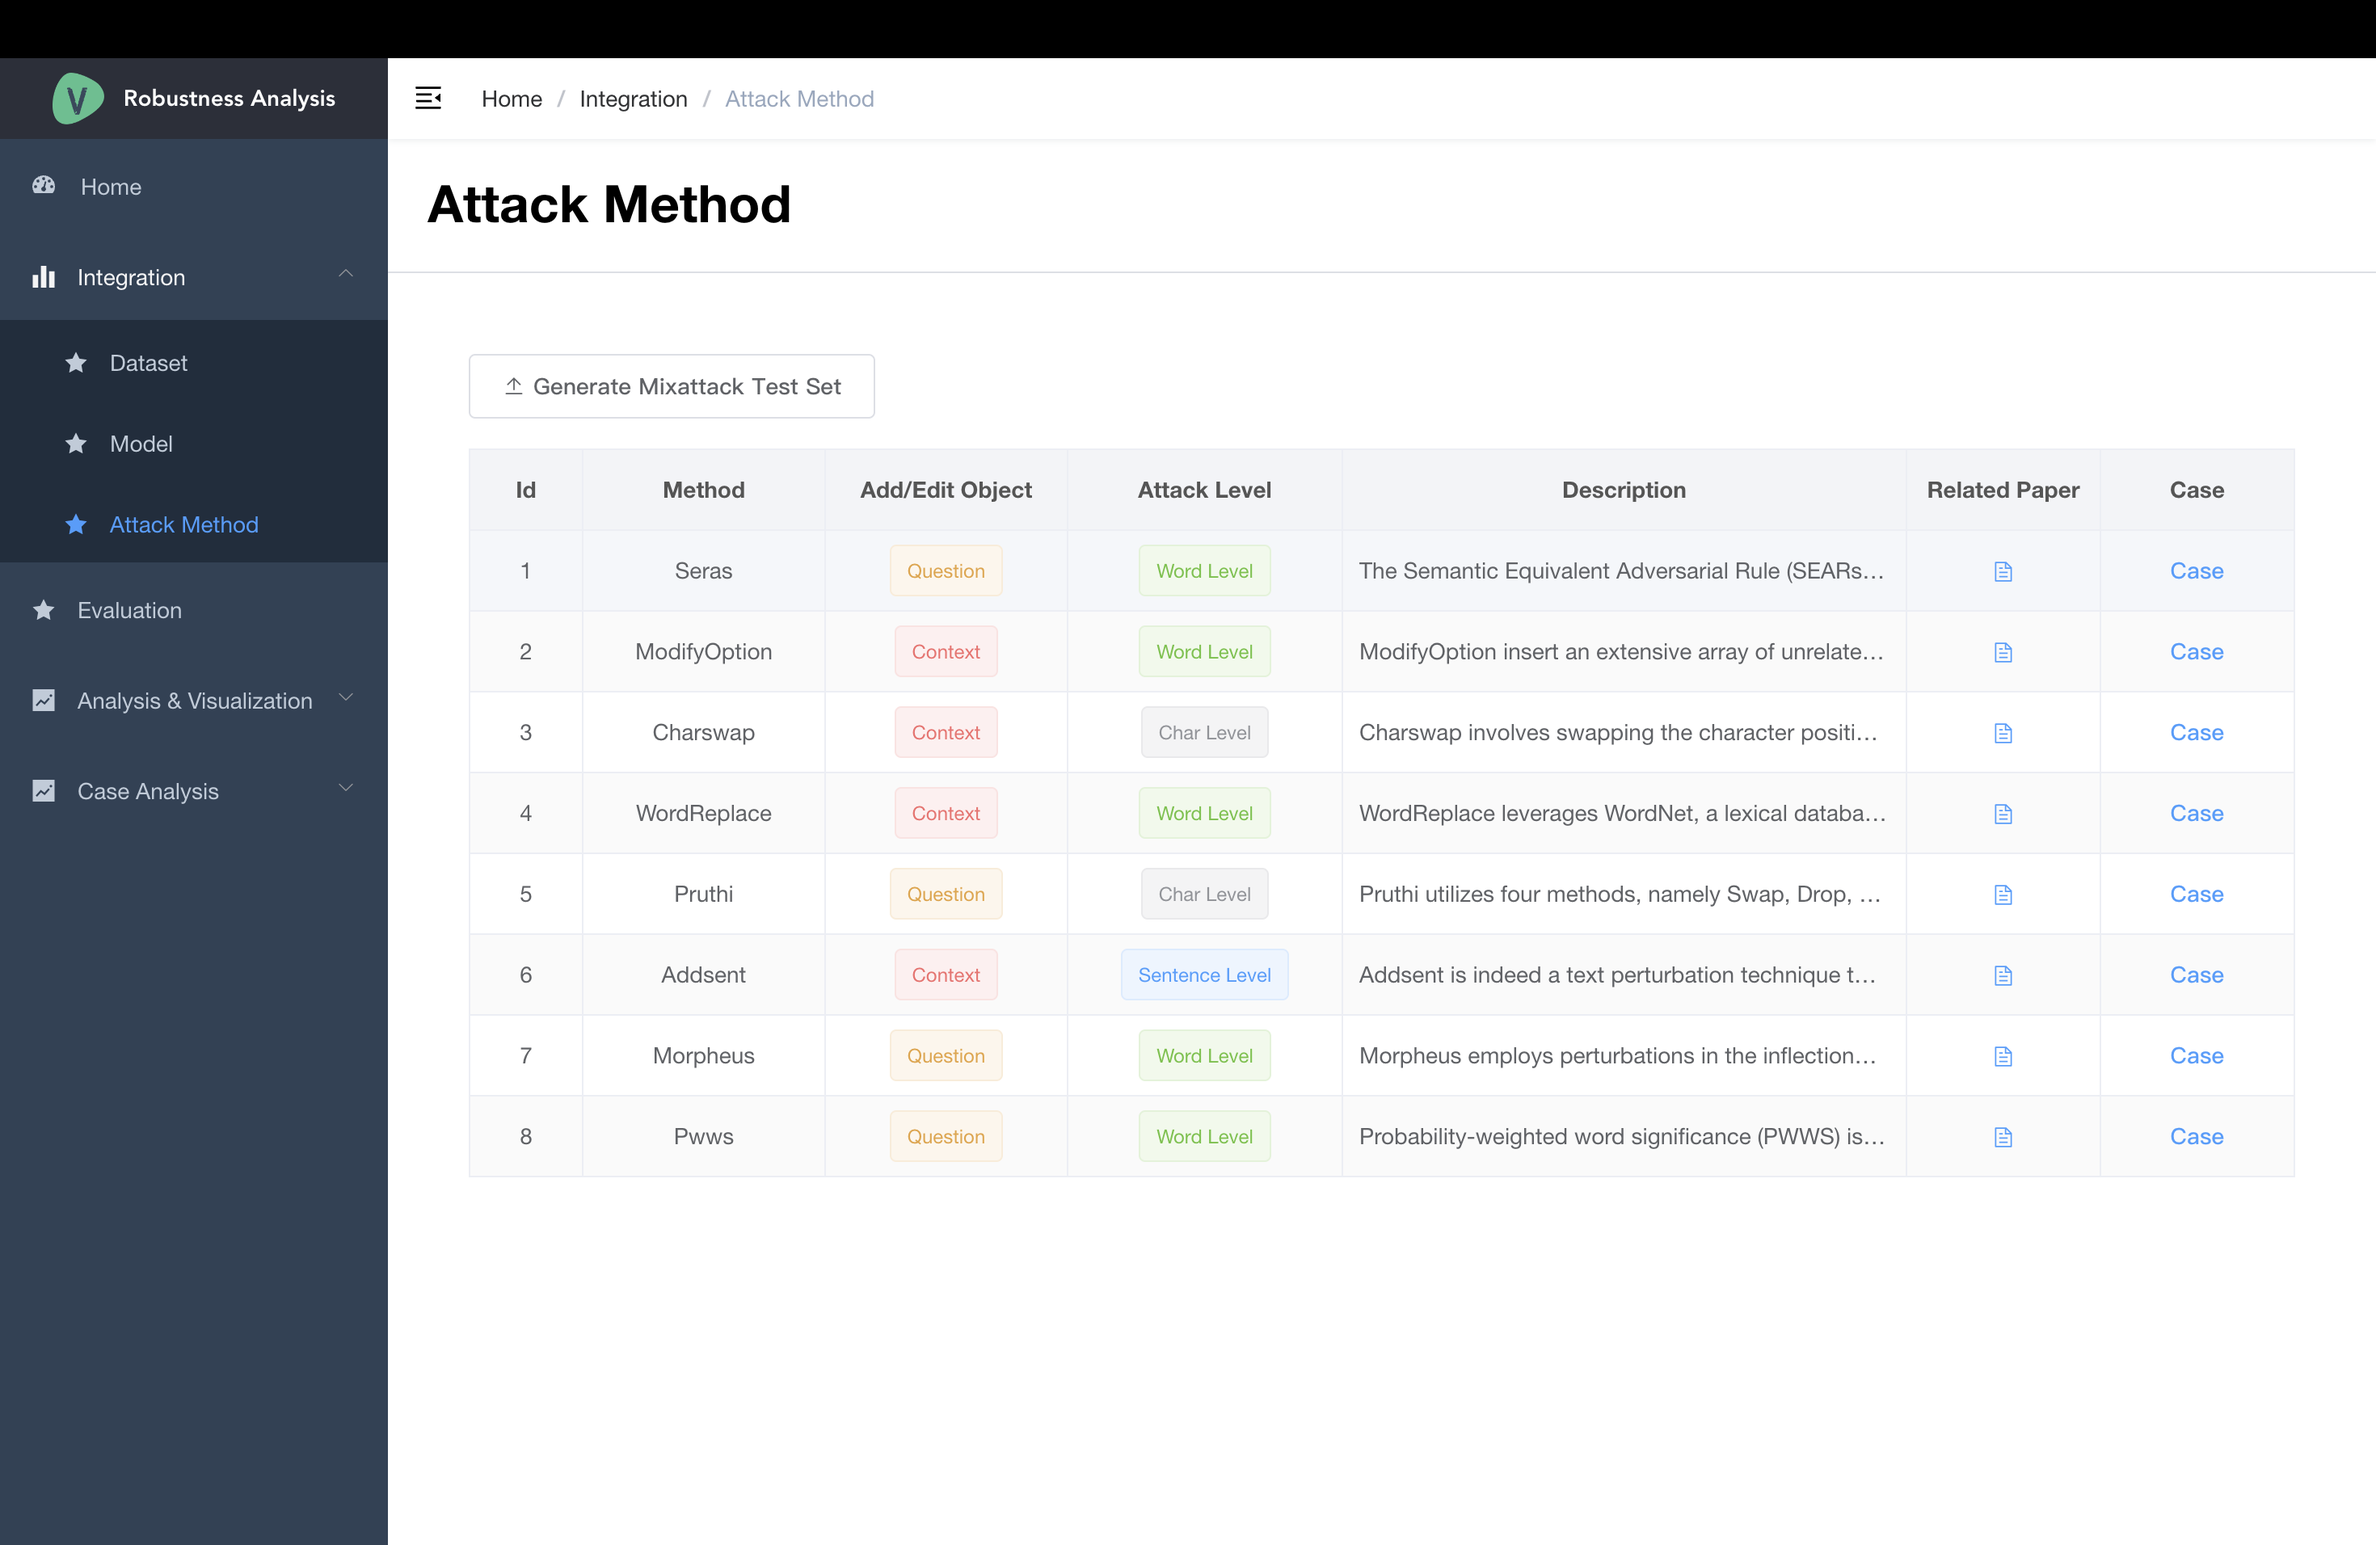
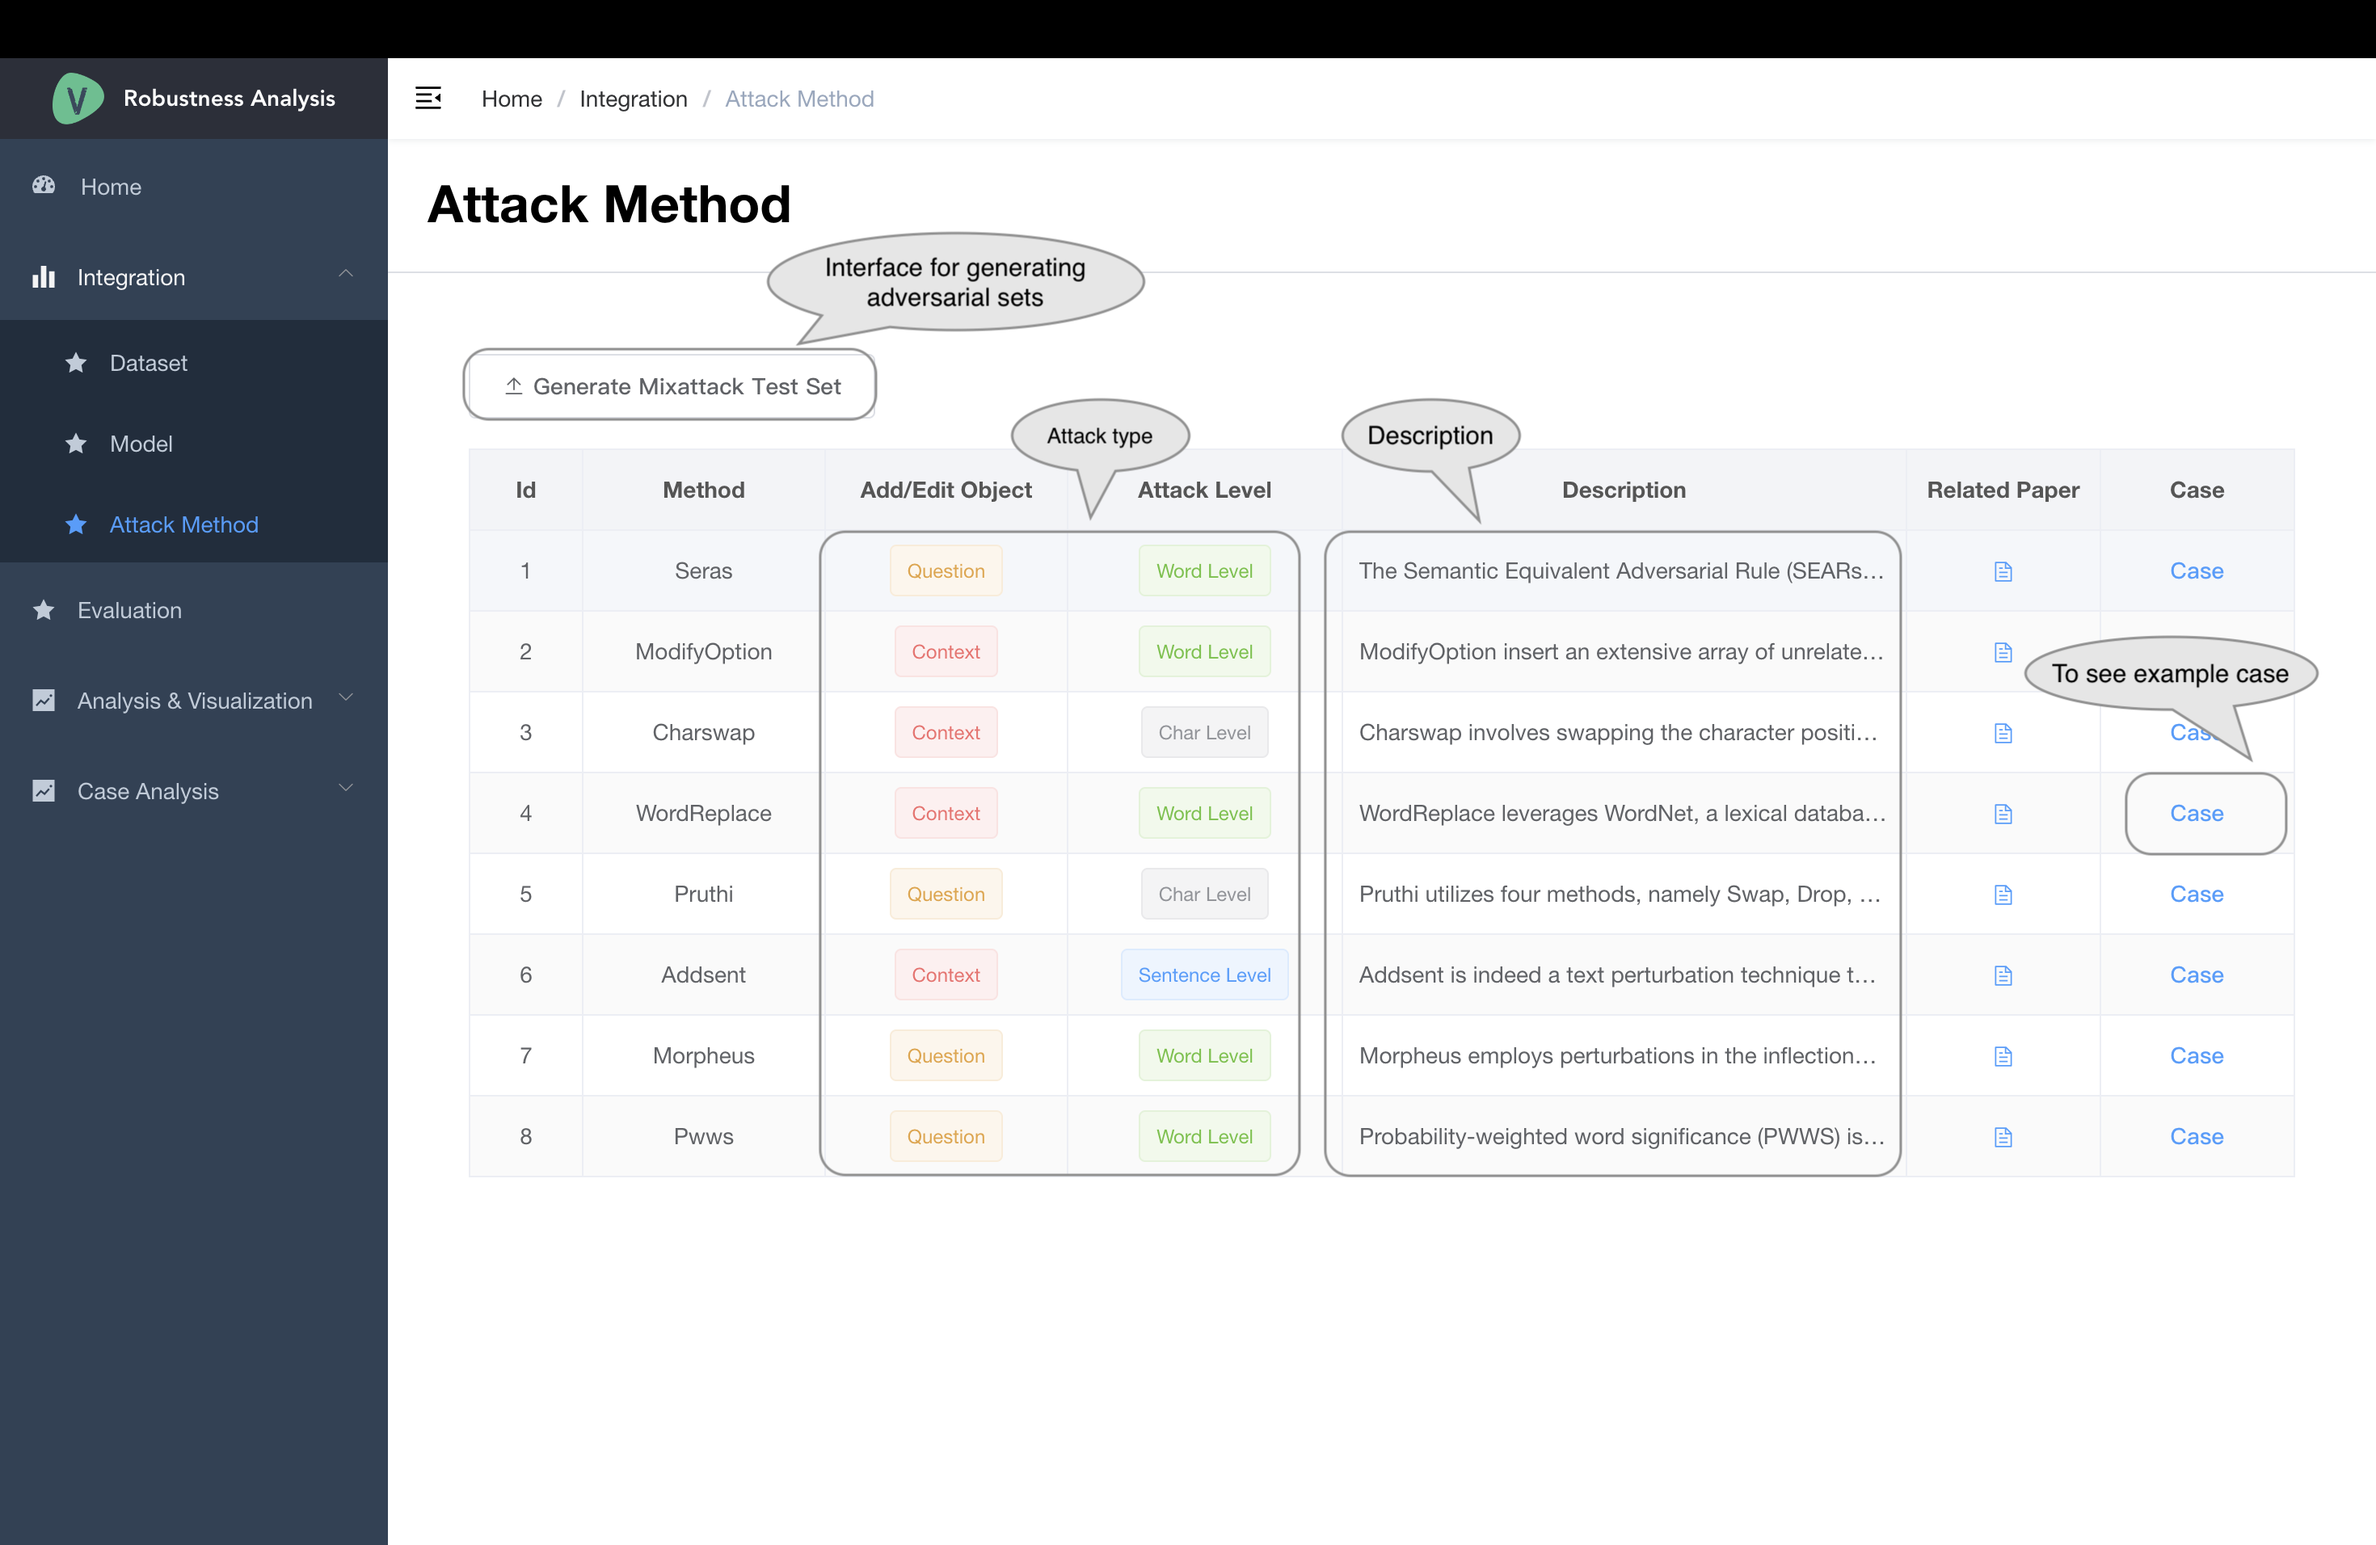
Add files via upload

diff --git a/screenshots/README.md b/screenshots/README.md
@@ -15,24 +15,67 @@ The platform consists of four main modules: MRC Models, adversarial attack metho
 
 ## MRC Models
 The first module is the MRC Models, which directly fetches the checkpoint files for MRC models directly from the HuggingFace repository. 
-This module preloads five PLMs-based MRC models fine-tuned on the MRQA datasets and utilizs three LLMs-based in a conversational format, and lists their parameter scale.
+This module preloads five PLMs-based MRC models fine-tuned on the MRQA datasets and utilizs three LLMs-based in a conversational format.
 
+It lists models's parameter scale and other information.
 ![](./src/1-1.png )
+It also provides links to the hugging face of the corresponding model.
 ![](./src/1-2.png )
 
 
-
-
 ## Adversarial Attack Methods
-   * combines eight adversarial attack methods with five MRC datasets to generate new challenging adversarial testing sets, resulting in a total of 40 diverse adversarial testing sets.
-   * provides a flexible interface to reconstruct new test sets that is interfered with by multiple attacks.
-   * The complete attack description along with corresponding case examples are available at [Adversarial Attack Document](https://github.com/distantJing/Robustness-Eva-MRC/tree/main/Adversarial%20Attack%20Document).
+This part combines eight adversarial attack methods with five MRC datasets to generate new challenging adversarial testing sets, resulting in a total of 40 diverse adversarial testing sets.
+
+It use five extractive MRC datasets (SQuAD 1.1, HotpotQA , Natural Questions, NewsQA, TriviaQA) and lists their statistical information. 
+![](./src/2-3.png )
+
+Then it describes eight adversarial attack methods.
+![](./src/2-0.png )
+
+We also show the reconstruction method and detailed examples for each adversarial attack method.
+This is a example case of WordReplace.
+![](./src/2-1.png )
+
+Besides, the platform provides the interface for generating new adversarial sets.
+![](./src/2-2.png )
+It provides a flexible interface to reconstruct new test sets that is interfered with by one or multiple attacks.
+![](./src/2-4.png )
+
+
 ## Evauation
-   * evaluates the performance of the MRC models on both the original and adversarially perturbed datasets, and lists all results and supports illustrating each sample for a case study.
-   * users can also download all kinds of test sets and upload their prediction files to the platform.
+
+list all the results
+![](./src/3-1.png )
+show example case
+![](./src/3-2.png )
+![](./src/3-3.png )
+
+   <!-- * evaluates the performance of the MRC models on both the original and adversarially perturbed datasets, and lists all results and supports illustrating each sample for a case study.
+   * users can also download all kinds of test sets and upload their prediction files to the platform. -->
+
+
 ## Analysis 
    * Visualization for Single Model & Model Comparison
+For pretrain language models:
+![](./src/4-1.png )
+![](./src/4-2.png )
+![](./src/4-1-1.png )
+![](./src/4-3.png )
+![](./src/4-4.png )
+
+For large-scale language models:
+![](./src/4-5.png )
+![](./src/4-6.png )
+![](./src/4-7.png )
+![](./src/4-8.png )
+
+
    * Case Studies for Single Model & Model Comparison
+![](./src/5-1.png )
+![](./src/5-2.png )
+
+
    * Mix Attack Analysis
+![](./src/6-1.png )
 
 
